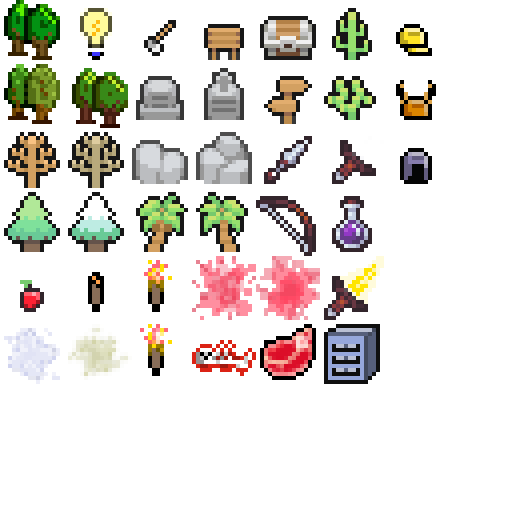
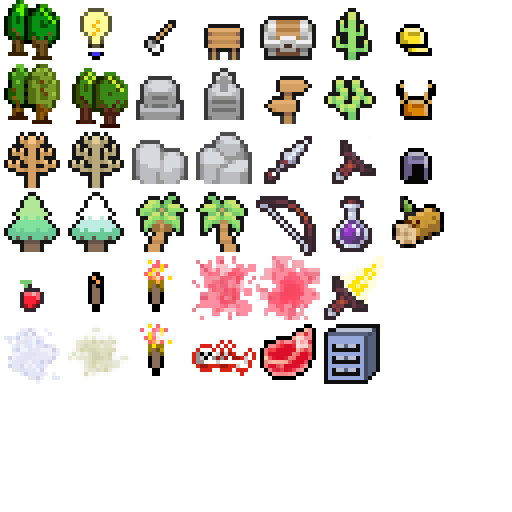
wood chopping

Changed region(s): [[0.75, 0.375, 0.875, 0.5]]

diff --git a/src/main/kotlin/things/Scenery.kt b/src/main/kotlin/things/Scenery.kt
@@ -3,6 +3,7 @@ package things
 import actors.Actor
 import actors.Player
 import kotlinx.serialization.Serializable
+import render.sparks.Smoke
 import render.tilesets.Glyph
 import ui.panels.Console
 
@@ -20,27 +21,40 @@ sealed class Scenery : Thing() {
     override fun description() = "Just another bit of the hideous natural beauty of the wasteland."
 }
 
+@Serializable
+sealed class Tree : Scenery() {
+    override fun isOpaque() = true
+    override fun walkOnMsg() = "You hack through the dense trees."
+
+    override fun uses() = mutableSetOf<Use>().apply {
+        add(Use("chop down " + name(), 3.0f,
+            canDo = { it.weapon() is Axe },
+            toDo = { actor, level ->
+                Log().moveTo(level, actor.xy.x, actor.xy.y)
+                level.addSpark(Smoke().at(actor.xy.x, actor.xy.y))
+                this@Tree.moveTo(null)
+                Console.sayAct("%Dd comes crashing down!", "%Dn chops down %id.", actor, this@Tree)
+            }))
+    }
+}
 
 @Serializable
-class OakTree : Scenery() {
+class OakTree : Tree() {
     override fun glyph() = Glyph.TREE
     override fun name() = "oak tree"
-    override fun isOpaque() = true
     override fun walkOnMsg() = "You hack through the dense trees."
 }
 
 @Serializable
-class PineTree : Scenery() {
+class PineTree : Tree() {
     override fun glyph() = Glyph.PINE_TREE
     override fun name() = "pine tree"
-    override fun isOpaque() = true
     override fun walkOnMsg() = "You trudge through the bracken and pinecones."
 }
 
 @Serializable
-class PalmTree : Scenery() {
+class PalmTree : Tree() {
     override fun glyph() = Glyph.PALM_TREE
     override fun name() = "palm tree"
-    override fun isOpaque() = true
     override fun walkOnMsg() = "You hack through the thick jungle growth."
 }

diff --git a/src/main/kotlin/things/Thing.kt b/src/main/kotlin/things/Thing.kt
@@ -4,6 +4,7 @@ import actors.Actor
 import kotlinx.serialization.Serializable
 import kotlinx.serialization.Transient
 import render.Screen
+import render.tilesets.Glyph
 import util.aOrAn
 import world.Entity
 import world.Level
@@ -67,4 +68,11 @@ sealed class Portable : Thing() {
 sealed class Obstacle : Thing() {
     override fun isBlocking() = true
     override fun isPortable() = false
+}
+
+@Serializable
+class Log : Portable() {
+    override fun name() = "log"
+    override fun description() = "Big, heavy, wood.  Better than bad.  Good."
+    override fun glyph() = Glyph.LOG
 }

diff --git a/src/main/kotlin/render/tilesets/ThingTileSet.kt b/src/main/kotlin/render/tilesets/ThingTileSet.kt
@@ -71,4 +71,5 @@ fun ThingTileSet() =
         setTile(Glyph.HARD_HAT, SimpleTile(this, 6, 0))
         setTile(Glyph.HORNED_HAT, SimpleTile(this, 6, 1))
         setTile(Glyph.HELMET, SimpleTile(this, 6, 2))
+        setTile(Glyph.LOG, SimpleTile(this, 6, 3))
     }

diff --git a/src/main/kotlin/render/tilesets/Glyph.kt b/src/main/kotlin/render/tilesets/Glyph.kt
@@ -72,6 +72,7 @@ enum class Glyph {
     HARD_HAT,
     HORNED_HAT,
     HELMET,
+    LOG,
 
     BLOODSTAIN
 }
